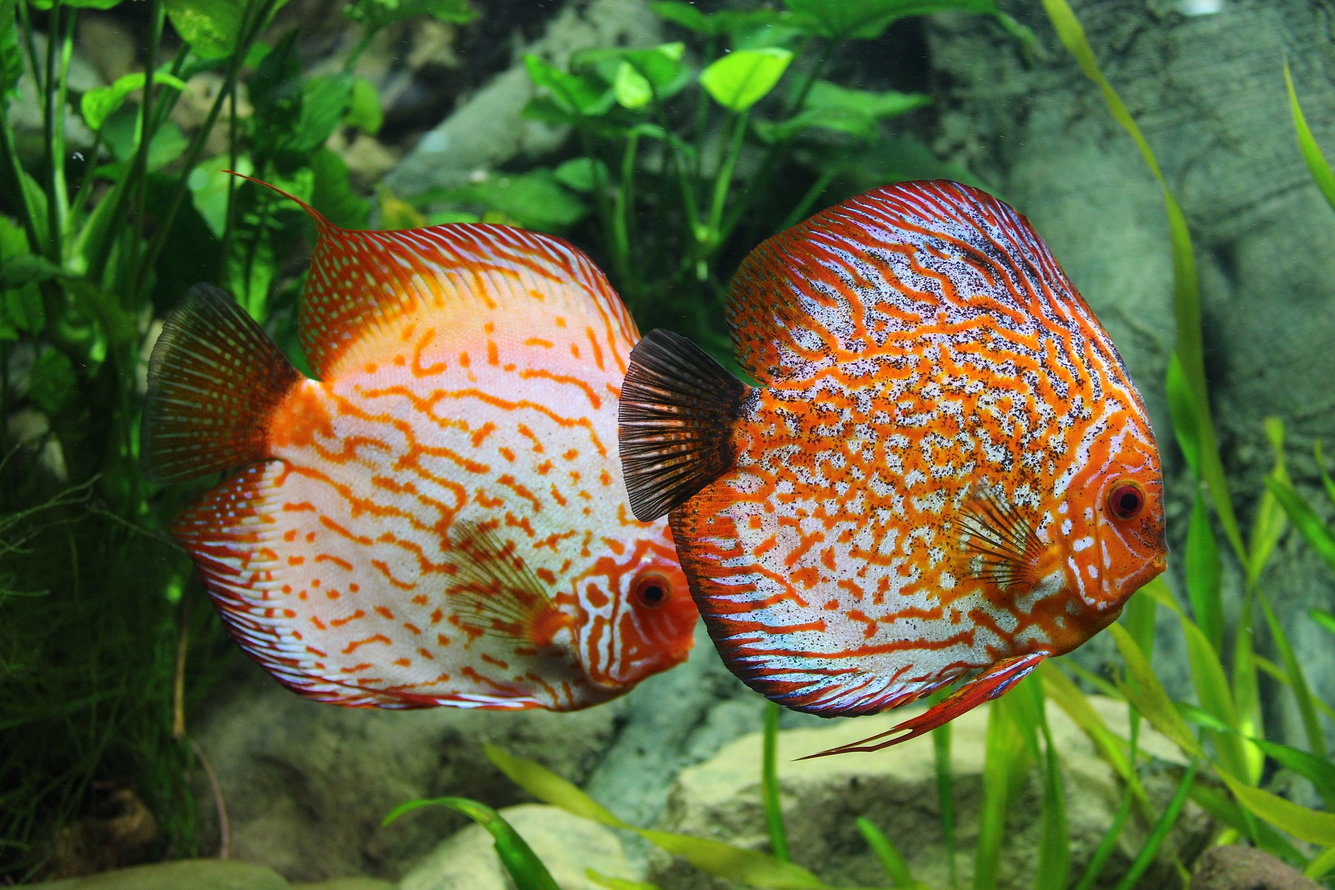
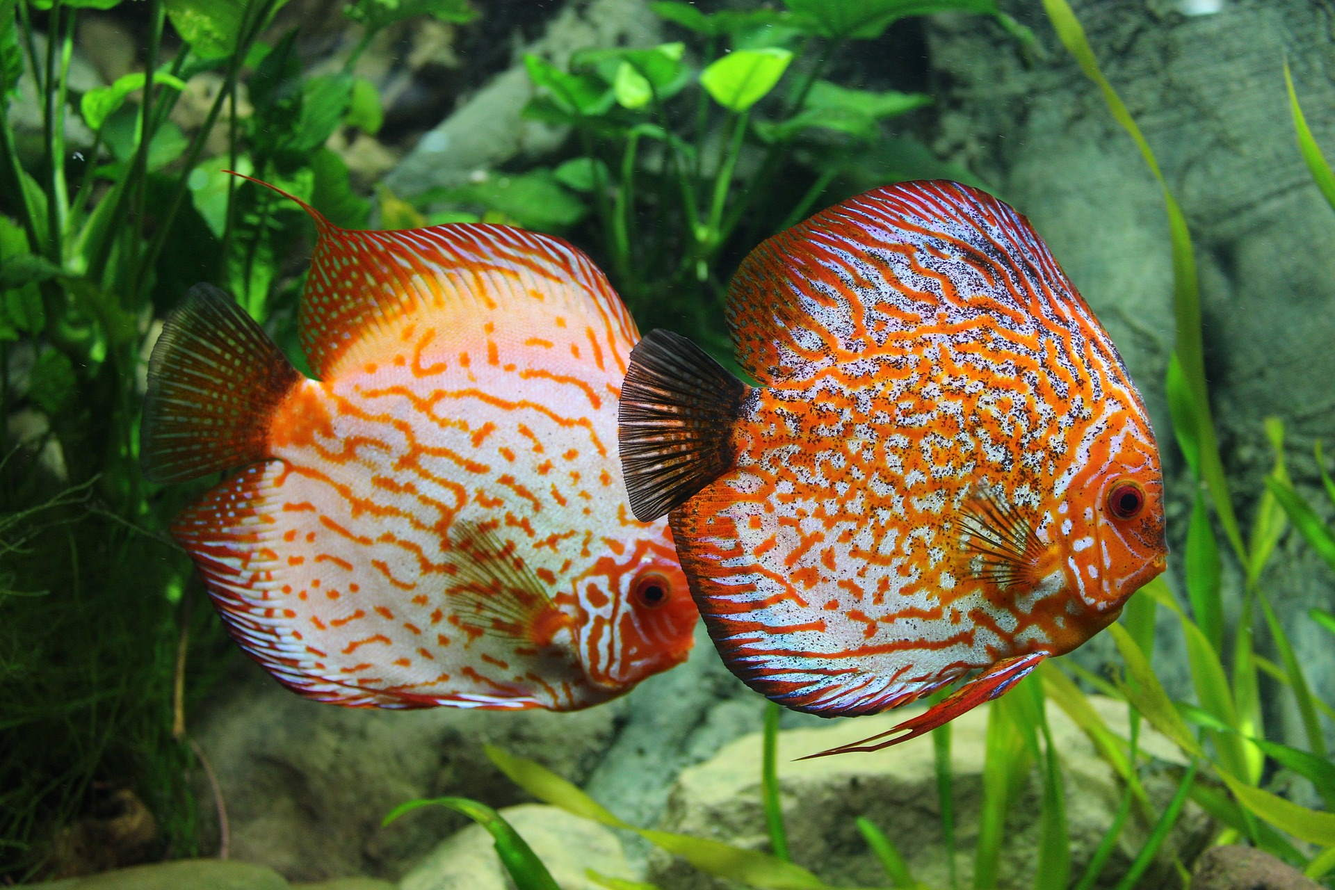
zdjecia

diff --git a/react/src/styles/views/Tickets/tickets.scss b/react/src/styles/views/Tickets/tickets.scss
@@ -6,7 +6,7 @@
 
     .tickets-header{
         @include flexCenterCenter;
-        background-image: url('../assets/tickets-header.png');
+        background-image: url('../assets/tickets-header.jpg');
         background-size: cover;
         height: 429px;
         font-family: 'Oswald';
@@ -18,7 +18,7 @@
         width: 100%;
 
         @include mobile{
-            background-image: url('../assets/tickets-headerMobile.png');
+            background-image: url('../assets/tickets-headerMobile.jpg');
         }
     }
 

diff --git a/react/src/styles/views/login.scss b/react/src/styles/views/login.scss
@@ -5,7 +5,7 @@
     justify-content: center;
     align-items: center;
     color: black;
-    background-image: url('../assets/signup.png');
+    background-image: url('../assets/signup.jpg');
     background-size: cover;
     font-family: 'Oswald';
     font-style: normal;
@@ -15,7 +15,7 @@
     text-align: center;
 
     @include mobile{
-        background-image: url('../assets/signupMobile.png');
+        background-image: url('../assets/signupMobile.jpg');
     }
 
     @include mobileMin{

diff --git a/react/src/styles/views/register.scss b/react/src/styles/views/register.scss
@@ -5,7 +5,7 @@
     justify-content: center;
     align-items: center;
     color: black;
-    background-image: url('../assets/signup.png');
+    background-image: url('../assets/signup.jpg');
     background-size: cover;
     font-family: 'Oswald';
     font-style: normal;
@@ -14,7 +14,7 @@
     line-height: 36px;
 
     @include mobile{
-        background-image: url('../assets/signupMobile.png');
+        background-image: url('../assets/signupMobile.jpg');
     }
 
     @include mobileMin{

diff --git a/react/src/components/DonationAnonymous.tsx b/react/src/components/DonationAnonymous.tsx
@@ -43,7 +43,7 @@ const DonationAnonymous = () => {
     const onSubmit = (data: DonationFormValues) => {
         if (data.amount >= 5 && ((currentUser && currentUser !== null) || (!currentUser && watchedInputs.name && watchedInputs.email))) {
             setDonationAmount(data.amount);
-            navigate('/donation_checkout');
+            navigate('/donation-checkout');
         } else {
             alert('Wrong donation amount or missing donor information!');
         }

diff --git a/react/src/views/UserViews/UserTickets.tsx b/react/src/views/UserViews/UserTickets.tsx
@@ -52,7 +52,7 @@ const UserTransactions = () => {
 
                 setCurrentTransactions(upcomingTickets);
                 setPreviousTransactions(pastTickets);
-                setLoading(true);
+                setLoading(false);
             } catch (err) {
                 setLoading(false);
                 console.error(err);

diff --git a/react/src/styles/views/myDonations.scss b/react/src/styles/views/myDonations.scss
@@ -6,7 +6,7 @@
         height: 429px;
         width: 100%;
         background-size: cover;
-        background-image: url('../assets/my_tickets.png');
+        background-image: url('../assets/my_tickets.jpg');
 
         @include mobile{
             background-image: url('../assets/my_tickets_mobile.png');

diff --git a/react/src/styles/views/userTickets.scss b/react/src/styles/views/userTickets.scss
@@ -6,7 +6,7 @@
         height: 429px;
         width: 100%;
         background-size: cover;
-        background-image: url('../assets/my_tickets.png');
+        background-image: url('../assets/my_tickets.jpg');
 
         @include mobile{
             background-image: url('../assets/my_tickets_mobile.png');

diff --git a/react/src/components/Footer.tsx b/react/src/components/Footer.tsx
@@ -32,7 +32,7 @@ const Footer = () => {
                         <HiLocationMarker />
                     </div>
                     <div className="element-text">
-                        123 Urz resovia
+                        UR
                     </div>
                 </div>
             </div>

diff --git a/react/src/styles/views/foundation.scss b/react/src/styles/views/foundation.scss
@@ -4,7 +4,7 @@
     flex-direction: column;
 
     .foundation-image{
-        background-image: url("../assets/foundation.png");
+        background-image: url("../assets/foundation.jpg");
         @include flexCenterCenter;
         height: 429px;
         width: 100%;

diff --git a/react/src/styles/views/facilities.scss b/react/src/styles/views/facilities.scss
@@ -2,7 +2,7 @@
     @include navbarMargin;
 
     .facilities-image{
-        background-image: url("../assets/facilities.png");
+        background-image: url("../assets/facilities.jpg");
         @include flexCenterCenter;
         height: 429px;
         width: 100%;

diff --git a/react/src/styles/views/statute.scss b/react/src/styles/views/statute.scss
@@ -6,7 +6,7 @@
     .statute-image{
         background-size: cover;
         width: 100%;
-        background-image: url('../assets/statute.png');
+        background-image: url('../assets/statute.jpg');
         height: 429px;
         @include flexCenterCenter;
 

diff --git a/react/src/styles/views/userPersonalPage.scss b/react/src/styles/views/userPersonalPage.scss
@@ -6,7 +6,7 @@
     gap: 20px;
 
     .personal-top{
-        background-image: url("../assets/my_account.png");
+        background-image: url("../assets/my_account.jpg");
         @include flexCenterCenter;
         height: 429px;
         width: 100%;
